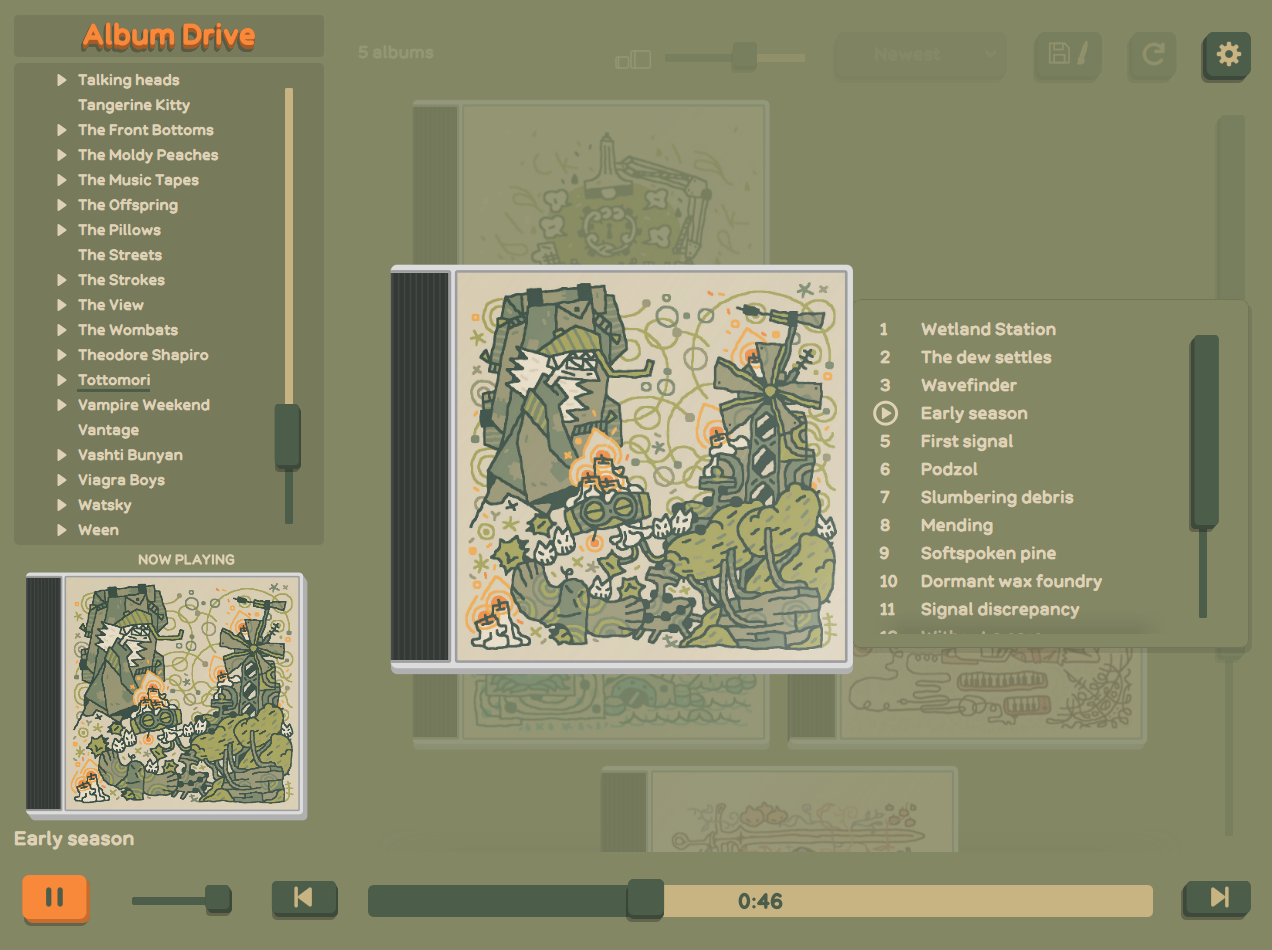
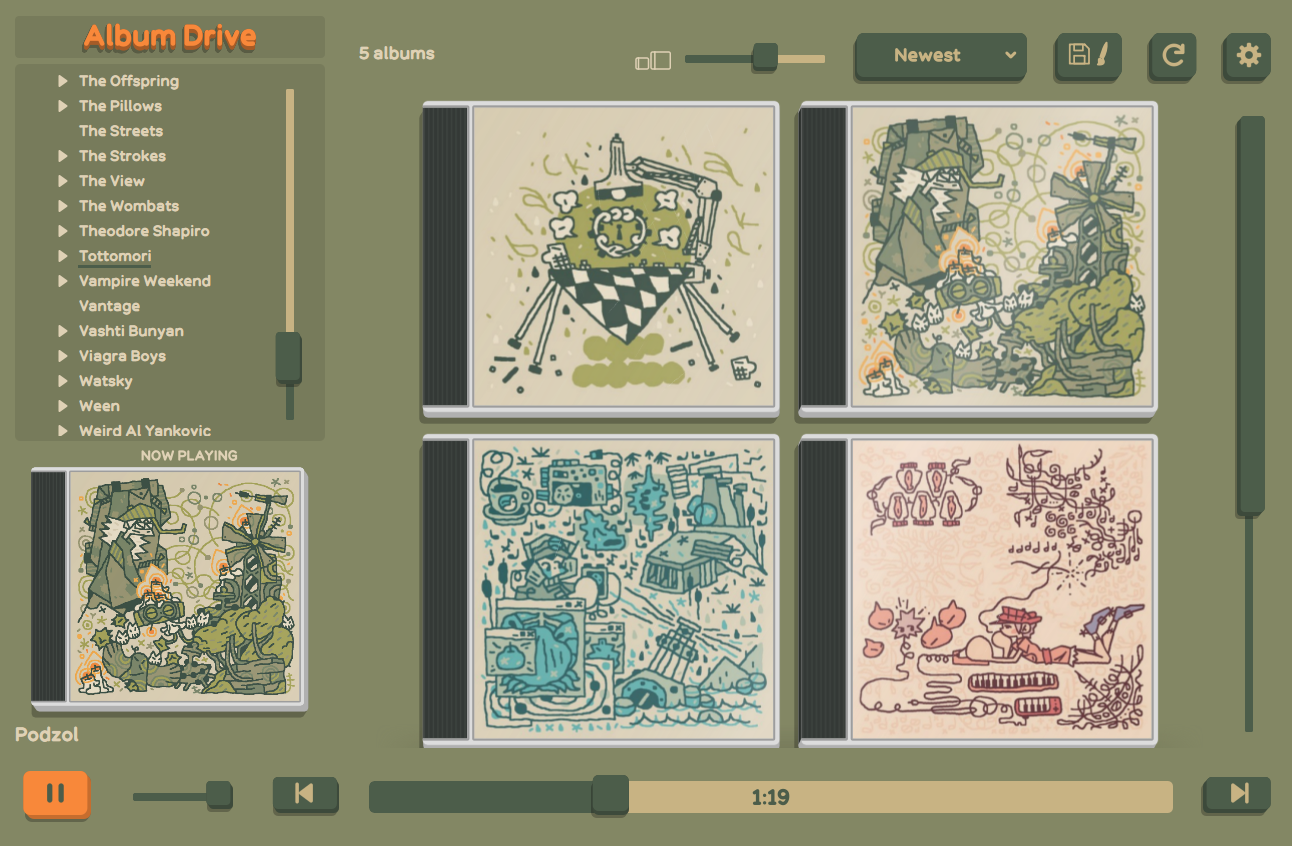
fixed track list style and CD case shadows
the track list now has the same thick style and shading as other UI elements.
the CD cases now has the same shadows as the buttons but with a fixed distance.
new preview images.

diff --git a/src/open_case.py b/src/open_case.py
@@ -6,7 +6,7 @@ from PIL import Image
 from PySide6.QtCore import QEasingCurve, QPoint, QPointF, QRect, QRectF, Qt, QVariantAnimation, Signal
 from PySide6.QtGui import QColor, QFont, QFontInfo, QFontMetricsF, QPainter, QPainterPath, QPen, QPixmap, QRegion, QTransform
 from PySide6.QtWidgets import QApplication, QGraphicsOpacityEffect, QStyle, QStyledItemDelegate, QStyleOptionViewItem, QTableWidget, QVBoxLayout, QWidget
-from themes import NUMERIC_DEFAULTS, corner_radius, round_stylesheet
+from themes import NUMERIC_DEFAULTS, button_paint_rect, control_face, paint_control
 from font_support import font_family_css
 from shiboken6 import isValid
 from case_shell import paint_cd_case, fitted_case_rect
@@ -190,6 +190,14 @@ class CaseFront(QWidget):
         paint_cd_case(painter, self, target, self.pixmap, self.sheen_key, visible=lighting, shadow=True)
 
 
+class TrackListBackground(QWidget):
+    def paintEvent(self, event):
+        painter = QPainter(self)
+        painter.setRenderHint(QPainter.Antialiasing)
+        background = QColor(self.property('paperBackgroundColor') or '#f2efdf')
+        paint_control(painter, self, button_paint_rect(self), background)
+
+
 class AlbumPresentation(QWidget):
     dismissed = Signal()
 
@@ -205,10 +213,10 @@ class AlbumPresentation(QWidget):
         self.paper_button_color = None
         self.paper_background_accent_color = None
         self.uses_global_text = True
-        self.booklet = QWidget(self)
+        self.booklet = TrackListBackground(self)
         self.booklet.setObjectName('booklet')
         self.booklet_style = '''
-            QWidget#booklet { background: #f2efdf; border: 1px solid #c4c5bb; border-radius: 12px; }
+            QWidget#booklet { background: transparent; border: none; }
             QWidget#booklet QTableWidget { background: #f2efdf; color: #24383f;
                 alternate-background-color: #f2efdf; border: none; }
             QWidget#booklet QHeaderView::section { background: #dedfd2; color: #24383f; padding: 5px; }
@@ -268,7 +276,6 @@ class AlbumPresentation(QWidget):
 
     def update_theme(self):
         app = QApplication.instance()
-        amount = app.property('cornerRoundness')
         families = font_family_css(str(app.property('trackListFamily') or app.font().family()))
         background = self.paper_background or QColor('#f2efdf')
         preferred = self.artwork_text_color or QColor(app.property('paperTextColor') or '#24383f')
@@ -276,10 +283,12 @@ class AlbumPresentation(QWidget):
                       else readable_paper_text(background, preferred, self.paper_palette))
         style = self.booklet_style.replace('#f2efdf', background.name()).replace('#24383f', foreground.name())
         if self.paper_background is not None:
-            style = style.replace('#c4c5bb', background.darker(115).name()).replace('#dedfd2', background.name())
+            style = style.replace('#dedfd2', background.name())
         size = app.property('trackListFontSize') or NUMERIC_DEFAULTS['track_list_font_size']
         style += f'QTableWidget {{ font-family: {families}; font-size: {size}px; font-weight: normal; font-style: normal; }}'
-        self.booklet.setStyleSheet(round_stylesheet(style, 100 if amount is None else amount))
+        self.booklet.setStyleSheet(style)
+        self.booklet.setProperty('paperBackgroundColor', background.name())
+        self.booklet.update()
         if hasattr(self, 'table'):
             self.table.setProperty('paperBackgroundColor', background.name())
             self.table.setProperty('paperForegroundColor', foreground.name())
@@ -340,22 +349,14 @@ class AlbumPresentation(QWidget):
         # This also hides it through the transparent margins of the case image.
         cut = max(0, min(self.booklet.width(), round(front_rect.right() - 8 - paper_x)))
         self.booklet.setVisible(cut < self.booklet.width())
-        paper_shape = QPainterPath()
-        radius = corner_radius(12, self.booklet.width(), self.booklet.height())
-        paper_shape.addRoundedRect(QRectF(self.booklet.rect()), radius, radius)
-        paper_mask = QRegion(paper_shape.toFillPolygon().toPolygon())
+        face = control_face(button_paint_rect(self.booklet), widget=self.booklet)
+        self.booklet.layout().setContentsMargins(
+            round(face.left() + 16), round(face.top() + 16),
+            round(self.booklet.width() - face.right() + 16),
+            round(self.booklet.height() - face.bottom() + 14))
         if cut > 0:
-            paper_mask &= QRegion(QRect(cut, 0, self.booklet.width() - cut, self.booklet.height()))
-        self.booklet.setMask(paper_mask)
+            self.booklet.setMask(QRegion(QRect(cut, 0, self.booklet.width() - cut, self.booklet.height())))
+        else:
+            self.booklet.clearMask()
         self.front.update()
         self.update()
-
-    def paintEvent(self, event):
-        painter = QPainter(self)
-        painter.setPen(Qt.NoPen)
-        painter.setBrush(QColor(0, 0, 0, round(24 * self.progress)))
-        paper = QRectF(self.booklet.geometry())
-        painter.setClipRect(QRectF(self.front.geometry().right() - 8, 0, self.width(), self.height()))
-        painter.setRenderHint(QPainter.Antialiasing)
-        radius = corner_radius(12, paper.width(), paper.height())
-        painter.drawRoundedRect(paper.translated(3, 5), radius, radius)

diff --git a/src/album_grid.py b/src/album_grid.py
@@ -8,7 +8,7 @@ from PySide6.QtCore import QEasingCurve, QMimeData, QPoint, QPointF, QRectF, QSi
 from PySide6.QtGui import QCursor, QDrag, QPainter, QPixmap, QTransform
 from PySide6.QtWidgets import QAbstractItemView, QListWidget, QStyledItemDelegate
 from themes import CLEANING_DEFAULT, NUMERIC_DEFAULTS, control_offset, control_shadow
-from case_shell import CASE_DEPTH, paint_cd_case
+from case_shell import CASE_DEPTH, CASE_SHADOW_DEPTH, paint_cd_case
 from case_geometry import CASE_WIDTH, CASE_HEIGHT
 from scroll_shadows import ScrollEdgeFade as AlbumEdgeFade
 
@@ -45,7 +45,7 @@ class AlbumGrid(QListWidget):
         bounds.translate(rect.center())
         depth_offset = QTransform().rotate(angle).map(-control_offset(self.viewport(), rect, CASE_DEPTH))
         bounds = bounds.united(bounds.translated(depth_offset))
-        bounds = bounds.united(bounds.translated(control_shadow(CASE_DEPTH)))
+        bounds = bounds.united(bounds.translated(control_shadow(CASE_SHADOW_DEPTH)))
         # Protect the edges of the whole album grid, not the moving viewport.
         # All cases must translate by exactly the scroll distance, even when
         # their tilt would otherwise extend past the visible bottom edge.
@@ -68,7 +68,7 @@ class AlbumGrid(QListWidget):
             bounds.translate(center)
             depth_offset = QTransform().rotate(angle).map(-control_offset(self.viewport(), rect, CASE_DEPTH))
             bounds = bounds.united(bounds.translated(depth_offset))
-            bounds = bounds.united(bounds.translated(control_shadow(CASE_DEPTH)))
+            bounds = bounds.united(bounds.translated(control_shadow(CASE_SHADOW_DEPTH)))
         dx = dy = 0
         if fits_x:
             dx = max(0, viewport.left() - bounds.left()) - max(0, bounds.right() - viewport.right())
@@ -520,7 +520,7 @@ class AlbumGrid(QListWidget):
         bounds = QTransform().rotate(angle).mapRect(QRectF(-rect.width()/2, -rect.height()/2, rect.width(), rect.height()))
         depth_offset = QTransform().rotate(angle).map(-control_offset(self.viewport(), rect, CASE_DEPTH))
         bounds = bounds.united(bounds.translated(depth_offset))
-        bounds = bounds.united(bounds.translated(control_shadow(CASE_DEPTH)))
+        bounds = bounds.united(bounds.translated(control_shadow(CASE_SHADOW_DEPTH)))
         bounds = bounds.adjusted(-2, -2, 2, 2)
         ratio = self.devicePixelRatioF()
         preview = QPixmap(math.ceil(bounds.width() * ratio), math.ceil(bounds.height() * ratio))

diff --git a/src/case_shell.py b/src/case_shell.py
@@ -12,7 +12,8 @@ from themes import control_body, control_offset, control_property, control_shado
 
 
 CASE_DEPTH = 6
-CASE_SHADOW_ENABLED = False
+CASE_SHADOW_ENABLED = True
+CASE_SHADOW_DEPTH = 8
 CASE_RADIUS = 2.4
 CASE_COLOR = '#dddddd'
 CASE_COLORS = (
@@ -54,7 +55,8 @@ def paint_live_frame(painter, target, color):
 
 
 def fitted_case_rect(rect):
-    available = QRectF(rect).adjusted(CASE_DEPTH, CASE_DEPTH, -CASE_DEPTH, 0)
+    shadow = control_shadow(CASE_SHADOW_DEPTH)
+    available = QRectF(rect).adjusted(CASE_DEPTH - shadow.x(), CASE_DEPTH, -CASE_DEPTH, -shadow.y())
     size = QSizeF(CASE_WIDTH, CASE_HEIGHT).scaled(available.size(), Qt.KeepAspectRatio)
     target = QRectF(QPointF(), size)
     target.moveCenter(available.center())
@@ -74,7 +76,7 @@ def paint_cd_case(painter, widget, rect, pixmap, key='', angle=0, visible=None, 
     painter.translate(-rect.center())
     geometry = tuple(round(value, 3) for value in
                      (face.width(), face.height(), CASE_RADIUS * min(scale_x, scale_y), offset.x(), offset.y()))
-    shadow_offset = QTransform().rotate(-angle).map(control_shadow(CASE_DEPTH))
+    shadow_offset = QTransform().rotate(-angle).map(control_shadow(CASE_SHADOW_DEPTH))
     if CASE_SHADOW_ENABLED and shadow and not shadow_offset.isNull():
         footprint = control_shadow_body(*geometry, round(shadow_offset.x(), 3), round(shadow_offset.y(), 3))
         painter.fillPath(footprint.translated(face.topLeft()), QColor(0, 0, 0, 65))

diff --git a/tests/checks/check_case_depth.py b/tests/checks/check_case_depth.py
@@ -58,7 +58,7 @@ for thickness in (0, 100, 300):
         assert images[1].tobytes() == images[2].tobytes()
         before, after = (image.getchannel('A').getbbox() for image in images[:2])
         if CASE_SHADOW_ENABLED:
-            assert after[0] < before[0], (thickness, angle, before, after)
+            assert after[0] <= before[0], (thickness, angle, before, after)
             assert after[3] > before[3], (thickness, angle, before, after)
         else:
             assert images[0].tobytes() == images[1].tobytes()

diff --git a/README.md b/README.md
@@ -1,4 +1,5 @@
 ![Album Drive preview](docs/preview1.png)
+![Album Drive preview](docs/preview2.png)
 
 Album Drive is a simple local music player that uses your folder structure instead of metadata to organize your music. It supports music folders and audio CDs in a CD/DVD drive.
 
